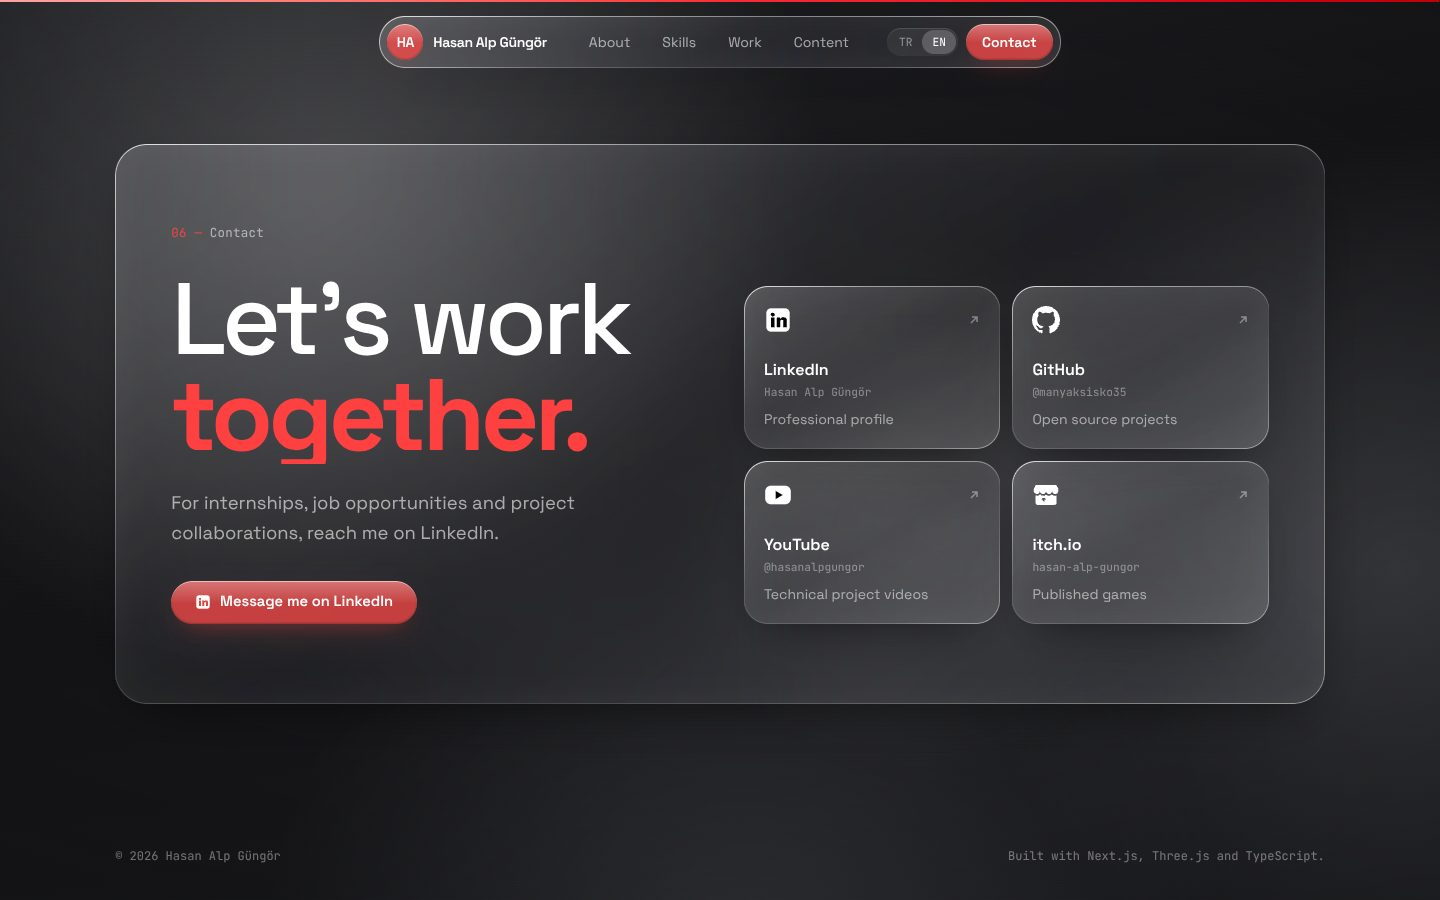
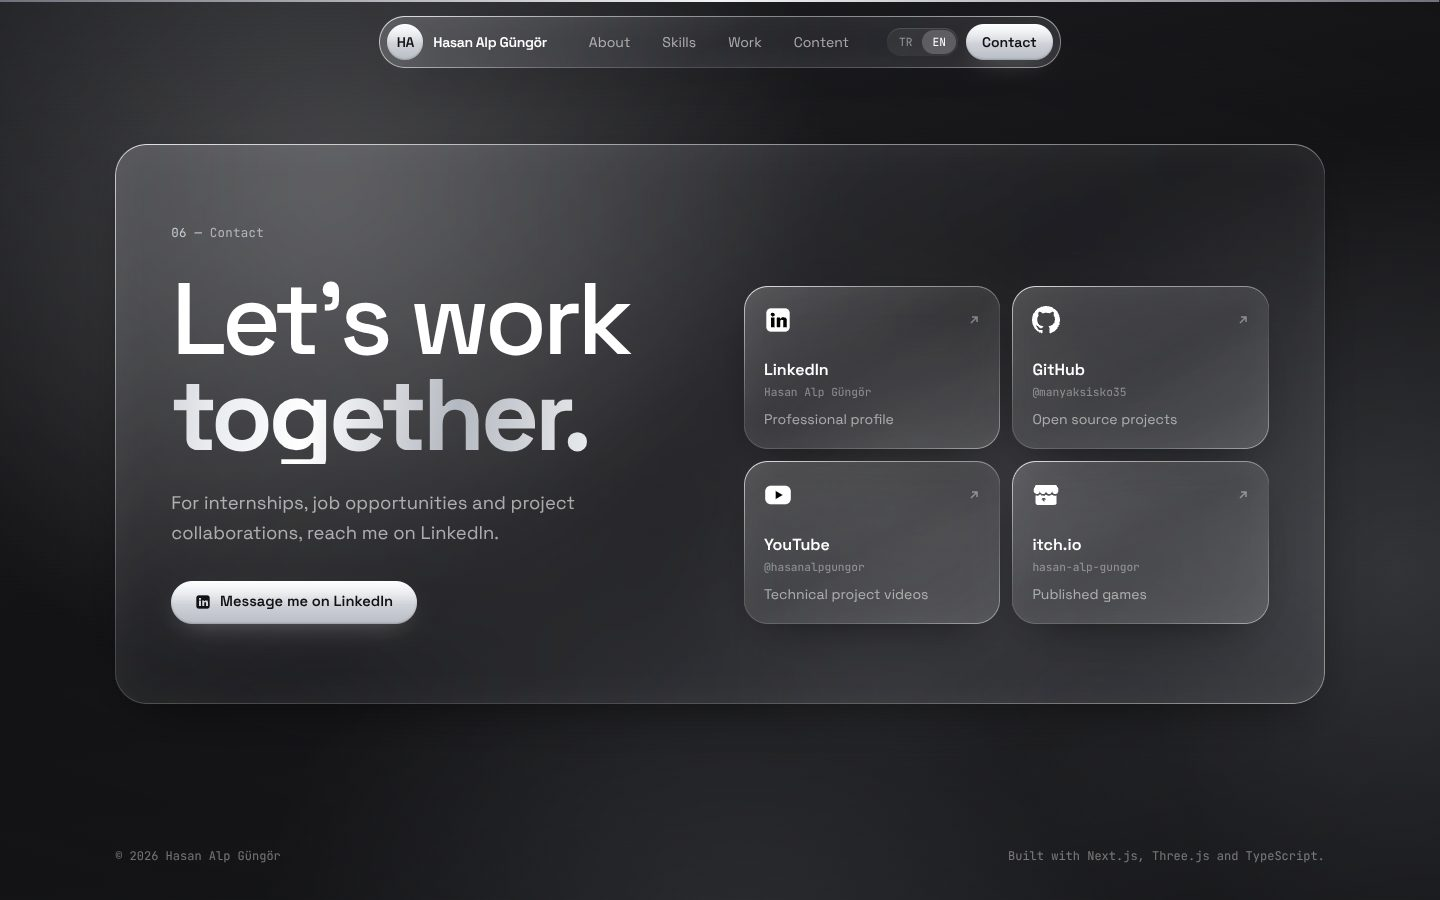
Gümüş tema
Kırmızı vurgular gümüşe çevrildi: başlıklarda parlayan metalik yazı, gümüş butonlar, gümüş oyun kolu ve nötr ışıklar.

Changed region(s): [[0.25, 0.0, 1.0, 0.0933], [0.125, 0.4044, 0.4062, 0.5289], [0.0938, 0.6222, 0.3125, 0.7156]]

diff --git a/app/globals.css b/app/globals.css
@@ -53,7 +53,7 @@ main { counter-reset: section; }
 .ui-label:not(.ui-label--plain) { counter-increment: section; }
 .ui-label:not(.ui-label--plain)::before {
   content: counter(section, decimal-leading-zero) '  —  ';
-  color: #ef4444;
+  color: #c7cbd2;
 }
 
 .ui-title {
@@ -75,7 +75,20 @@ h2.ui-title-xl { font-size: clamp(2.6rem, 1.3rem + 5.6vw, 6.5rem); }
 }
 
 .ui-accent {
-  color: #ff4040;
+  /* Brushed silver: a metallic gradient with a slow sheen passing over it. */
+  background: linear-gradient(100deg, #8f949d 0%, #e9ebef 22%, #ffffff 32%, #b4b8c0 48%, #f4f5f7 66%, #9ea3ab 82%, #d8dbe0 100%);
+  background-size: 220% 100%;
+  -webkit-background-clip: text;
+  background-clip: text;
+  color: transparent;
+  animation: silver-sheen 9s ease-in-out infinite alternate;
+}
+@keyframes silver-sheen {
+  from { background-position: 0% 50%; }
+  to { background-position: 100% 50%; }
+}
+@media (prefers-reduced-motion: reduce) {
+  .ui-accent { animation: none; }
 }
 
 .ui-card {
@@ -127,33 +140,34 @@ h2.ui-title-xl { font-size: clamp(2.6rem, 1.3rem + 5.6vw, 6.5rem); }
   gap: 0.55rem;
   padding: 0.8rem 1.5rem;
   border-radius: 999px;
-  color: #fff;
+  color: #111214;
   font-weight: 600;
   font-size: 0.92rem;
   line-height: 1.2;
-  /* Tinted glass: red light inside a clear shell. */
+  /* Polished silver capsule with a glass highlight on top. */
   background:
-    linear-gradient(180deg, rgba(255, 255, 255, 0.28), rgba(255, 255, 255, 0) 52%),
-    rgba(239, 68, 68, 0.78);
+    linear-gradient(180deg, rgba(255, 255, 255, 0.9), rgba(255, 255, 255, 0) 55%),
+    linear-gradient(180deg, #e9ebef, #b9bdc5);
   -webkit-backdrop-filter: blur(16px) saturate(180%);
   backdrop-filter: blur(16px) saturate(180%);
   box-shadow:
-    inset 0 1px 0 rgba(255, 255, 255, 0.55),
-    inset 0 -1px 2px rgba(0, 0, 0, 0.25),
-    0 10px 26px -12px rgba(239, 68, 68, 0.55);
+    inset 0 1px 0 rgba(255, 255, 255, 0.9),
+    inset 0 -1px 2px rgba(0, 0, 0, 0.18),
+    0 10px 26px -12px rgba(255, 255, 255, 0.35);
   transition: transform 0.25s cubic-bezier(0.2, 0.8, 0.2, 1), box-shadow 0.25s ease, background 0.25s ease;
 }
-.ui-btn { --icon-cut: #e0443c; }
+.ui-btn { --icon-cut: #d4d7dc; }
 .ui-btn--ghost { --icon-cut: #1a1a1d; }
 .ui-btn:hover {
   transform: translateY(-1px) scale(1.03);
   box-shadow:
-    inset 0 1px 0 rgba(255, 255, 255, 0.65),
-    inset 0 -1px 2px rgba(0, 0, 0, 0.25),
-    0 14px 32px -12px rgba(239, 68, 68, 0.7);
+    inset 0 1px 0 rgba(255, 255, 255, 1),
+    inset 0 -1px 2px rgba(0, 0, 0, 0.18),
+    0 14px 32px -12px rgba(255, 255, 255, 0.5);
 }
 .ui-btn:active { transform: scale(0.97); }
 .ui-btn--ghost {
+  color: #fff;
   background:
     linear-gradient(180deg, rgba(255, 255, 255, 0.16), rgba(255, 255, 255, 0.03) 60%),
     rgba(255, 255, 255, 0.04);
@@ -170,7 +184,7 @@ h2.ui-title-xl { font-size: clamp(2.6rem, 1.3rem + 5.6vw, 6.5rem); }
 }
 
 :focus-visible {
-  outline: 2px solid #ff4d4d;
+  outline: 2px solid #d1d5db;
   outline-offset: 3px;
   border-radius: 6px;
 }
@@ -250,8 +264,6 @@ a.rounded-full:focus-visible { border-radius: 999px; }
 @media (prefers-reduced-motion: reduce) {
   .ui-ambient::before { animation: none; }
 }
-.amb-red    { --amb-a: rgba(239, 68, 68, 0.16);  --amb-b: rgba(185, 28, 28, 0.12); }
-.amb-ember  { --amb-a: rgba(255, 90, 70, 0.14);  --amb-b: rgba(127, 29, 29, 0.16); }
 
 
 @media (prefers-reduced-motion: no-preference) {
@@ -310,8 +322,8 @@ a.rounded-full:focus-visible { border-radius: 999px; }
   width: 1.6rem;
   height: 1.6rem;
   border-radius: 999px;
-  background: linear-gradient(135deg, #ff6b6b, #dc2626);
-  color: #fff;
+  background: linear-gradient(180deg, #f4f5f7, #aeb3bb);
+  color: #111214;
   font-size: 0.62rem;
   font-weight: 700;
 }

diff --git a/components/About.tsx b/components/About.tsx
@@ -104,7 +104,7 @@ export default function About() {
                 <p className="text-xl lg:text-2xl font-semibold tracking-tight">{t({ tr: 'İzmir Ekonomi Üniversitesi', en: 'İzmir University of Economics' })}</p>
                 <p className="mt-1 text-white/55">{t({ tr: 'Bilgisayar Programcılığı', en: 'Computer Programming' })}</p>
               </div>
-              <span className="shrink-0 rounded-full border border-red-500/40 bg-red-500/10 px-3 py-1 font-mono text-[0.7rem] text-red-300">
+              <span className="shrink-0 rounded-full border border-white/25 bg-white/10 px-3 py-1 font-mono text-[0.7rem] text-zinc-100">
                 {t({ tr: 'Devam ediyor', en: 'In progress' })}
               </span>
             </div>
@@ -127,8 +127,8 @@ export default function About() {
             <p className="mt-4 text-xl font-semibold tracking-tight">İzmir, {t({ tr: 'Türkiye', en: 'Türkiye' })}</p>
             <p className="mt-auto pt-6 flex items-center gap-2 font-mono text-sm text-white/55">
               <span className="relative flex w-2 h-2">
-                <span className="absolute inset-0 rounded-full bg-red-500 animate-ping opacity-60" />
-                <span className="relative w-2 h-2 rounded-full bg-red-500" />
+                <span className="absolute inset-0 rounded-full bg-zinc-200 animate-ping opacity-60" />
+                <span className="relative w-2 h-2 rounded-full bg-zinc-200" />
               </span>
               <IzmirClock /> <span className="text-white/30">GMT+3</span>
             </p>
@@ -148,7 +148,7 @@ export default function About() {
             <ul className="mt-4 space-y-2 text-sm text-white/75">
               {FOCUS.map((f) => (
                 <li key={f.en} className="flex gap-2">
-                  <span className="mt-2 w-1 h-1 shrink-0 rounded-full bg-red-500" />
+                  <span className="mt-2 w-1 h-1 shrink-0 rounded-full bg-zinc-200" />
                   {t(f)}
                 </li>
               ))}

diff --git a/lib/data.ts b/lib/data.ts
@@ -91,7 +91,7 @@ export const PROJECTS: Project[] = [
       en: 'A website concept where I reimagined the digital identity of the Norwegian national football team.',
     },
     stack: ['Web Design', 'UI'],
-    accent: '#ef4444',
+    accent: '#e4e4e7',
   },
   {
     name: 'CS2 Major HUD',
@@ -102,7 +102,7 @@ export const PROJECTS: Project[] = [
       en: 'I made a Major-style broadcast overlay for Counter-Strike 2 matches. It reads game data about 10 times a second and shows health, money, the killfeed and the bomb timer live.',
     },
     stack: ['Python', 'JavaScript', 'HTML', 'CSS'],
-    accent: '#ef4444',
+    accent: '#e4e4e7',
   },
   {
     name: 'Goal Detector System',
@@ -113,7 +113,7 @@ export const PROJECTS: Project[] = [
       en: 'A goal detection system I developed with an Arduino Uno and Python, including the circuit design and the software.',
     },
     stack: ['Arduino', 'Python'],
-    accent: '#f87171',
+    accent: '#a1a1aa',
   },
   {
     name: 'Öğrenci Not Sistemi',
@@ -124,7 +124,7 @@ export const PROJECTS: Project[] = [
       en: 'A PHP app that works out whether a student passes from their midterm and final grades. I wrote two versions: one with a database, one with JSON.',
     },
     stack: ['PHP', 'SQL', 'JSON'],
-    accent: '#dc2626',
+    accent: '#d4d4d8',
   },
   {
     name: 'PcProgramKurucu',
@@ -135,7 +135,7 @@ export const PROJECTS: Project[] = [
       en: 'A Batch script I wrote to install programs on a PC automatically.',
     },
     stack: ['Batch', 'Windows'],
-    accent: '#fca5a5',
+    accent: '#f4f4f5',
   },
   {
     name: 'Mağaza Satış Analiz Programı',
@@ -146,7 +146,7 @@ export const PROJECTS: Project[] = [
       en: 'A program that analyses store sales, written for my C# fundamentals course. The walkthrough is on YouTube.',
     },
     stack: ['C#'],
-    accent: '#b91c1c',
+    accent: '#71717a',
   },
 ];
 

diff --git a/lib/controllerModel.ts b/lib/controllerModel.ts
@@ -90,8 +90,8 @@ function fontStack() {
 export function drawScreen(ctx: CanvasRenderingContext2D) {
   const { width: w, height: h } = ctx.canvas;
   const bg = ctx.createLinearGradient(0, 0, w, h);
-  bg.addColorStop(0, '#0a0404');
-  bg.addColorStop(1, '#140606');
+  bg.addColorStop(0, '#08090b');
+  bg.addColorStop(1, '#131418');
   ctx.fillStyle = bg;
   ctx.fillRect(0, 0, w, h);
 
@@ -102,9 +102,9 @@ export function drawScreen(ctx: CanvasRenderingContext2D) {
     ctx.fillStyle = g;
     ctx.fillRect(0, 0, w, h);
   };
-  blob(w * 0.18, h * 0.85, w * 0.5, 'rgba(255, 77, 77, 0.55)');
-  blob(w * 0.62, h * 0.2, w * 0.45, 'rgba(185, 28, 28, 0.6)');
-  blob(w * 0.95, h * 0.9, w * 0.4, 'rgba(255, 140, 120, 0.4)');
+  blob(w * 0.18, h * 0.85, w * 0.5, 'rgba(255, 255, 255, 0.4)');
+  blob(w * 0.62, h * 0.2, w * 0.45, 'rgba(150, 156, 166, 0.55)');
+  blob(w * 0.95, h * 0.9, w * 0.4, 'rgba(220, 223, 229, 0.35)');
 
   ctx.strokeStyle = 'rgba(255,255,255,0.08)';
   ctx.lineWidth = 2;
@@ -129,7 +129,7 @@ export function drawScreen(ctx: CanvasRenderingContext2D) {
 /** The circuit board hidden between the shells. */
 export function drawBoard(ctx: CanvasRenderingContext2D) {
   const { width: w, height: h } = ctx.canvas;
-  ctx.fillStyle = '#0f0707';
+  ctx.fillStyle = '#0c0d0f';
   ctx.fillRect(0, 0, w, h);
 
   // Seeded so every visit gets the same board.
@@ -140,7 +140,7 @@ export function drawBoard(ctx: CanvasRenderingContext2D) {
   for (let i = 0; i < 70; i++) {
     let x = rnd() * w;
     let y = rnd() * h;
-    ctx.strokeStyle = rnd() > 0.7 ? 'rgba(255, 77, 77, 0.85)' : 'rgba(220, 38, 38, 0.3)';
+    ctx.strokeStyle = rnd() > 0.7 ? 'rgba(230, 233, 238, 0.8)' : 'rgba(150, 156, 166, 0.3)';
     ctx.lineWidth = rnd() > 0.8 ? 4 : 2;
     ctx.beginPath();
     ctx.moveTo(x, y);

diff --git a/components/Scene.tsx b/components/Scene.tsx
@@ -20,9 +20,10 @@ function StudioEnv() {
       <Lightformer form="rect" intensity={3} position={[0, 5, 0]} rotation-x={Math.PI / 2} scale={[10, 4, 1]} />
       <Lightformer form="rect" intensity={2.4} position={[-5, 0.5, 1]} rotation-y={Math.PI / 2} scale={[2.5, 9, 1]} />
       <Lightformer form="rect" intensity={2.4} position={[5, 0.5, 1]} rotation-y={-Math.PI / 2} scale={[2.5, 9, 1]} />
-      <Lightformer form="rect" intensity={0.8} position={[0, 0, 6]} rotation-y={Math.PI} scale={[8, 5, 1]} />
-      <Lightformer form="ring" color="#ff4d4d" intensity={1.6} position={[0, 0, -6]} scale={5} />
-      <Lightformer form="ring" color="#b91c1c" intensity={1.2} position={[-4, -2, -4]} scale={3} />
+      <Lightformer form="rect" intensity={2.2} position={[0, 0, 6]} rotation-y={Math.PI} scale={[8, 5, 1]} />
+      <Lightformer form="rect" intensity={1.6} position={[0, 3.5, 4]} rotation-x={Math.PI / 3} scale={[6, 2, 1]} />
+      <Lightformer form="ring" color="#ffffff" intensity={1.6} position={[0, 0, -6]} scale={5} />
+      <Lightformer form="ring" color="#9ca3af" intensity={1.2} position={[-4, -2, -4]} scale={3} />
     </Environment>
   );
 }
@@ -141,9 +142,9 @@ export default function Scene() {
       >
         <StudioEnv />
         <ambientLight intensity={0.25} />
-        <directionalLight position={[0, 2.5, -5]} intensity={2.6} color="#ffe1dc" />
+        <directionalLight position={[0, 2.5, -5]} intensity={2.6} color="#ffffff" />
         <directionalLight position={[3, 4, 5]} intensity={1.4} />
-        <directionalLight position={[-4, 1, 4]} intensity={0.6} color="#ff8a80" />
+        <directionalLight position={[-4, 1, 4]} intensity={0.6} color="#e5e7eb" />
         <Rig>
           <Controller />
         </Rig>

diff --git a/components/Controller.tsx b/components/Controller.tsx
@@ -18,7 +18,7 @@ import { pose } from '@/lib/sceneState';
 
 /** Front face of the front shell (local z). */
 const FACE = 0.27;
-const BUTTON_COLORS = ['#ff3b3b', '#ff8a80', '#b91c1c', '#e5e5e5'];
+const BUTTON_COLORS = ['#f4f4f5', '#a1a1aa', '#d4d4d8', '#71717a'];
 const BUTTON_OFFSETS: [number, number][] = [
   [0, 0.13],
   [0.13, 0],
@@ -34,9 +34,9 @@ function Anchor({ id, position, onRef }: { id: PartId; position: [number, number
 function useMaterials() {
   return useMemo(() => {
     const shell = new THREE.MeshPhysicalMaterial({
-      color: '#3a3e46',
-      metalness: 0.6,
-      roughness: 0.36,
+      color: '#9aa0a8',
+      metalness: 0.9,
+      roughness: 0.28,
       clearcoat: 1,
       clearcoatRoughness: 0.18,
     });
@@ -50,7 +50,7 @@ function useMaterials() {
     const rubber = new THREE.MeshStandardMaterial({ color: '#0d0e10', roughness: 0.85, metalness: 0.1 });
     const recess = new THREE.MeshStandardMaterial({ color: '#040405', roughness: 0.9 });
     const dpad = new THREE.MeshPhysicalMaterial({ color: '#1d2026', metalness: 0.6, roughness: 0.3, clearcoat: 1 });
-    const glow = new THREE.MeshBasicMaterial({ color: '#ff4d4d', toneMapped: false });
+    const glow = new THREE.MeshBasicMaterial({ color: '#f4f4f5', toneMapped: false });
     const buttons = BUTTON_COLORS.map(
       (c) =>
         new THREE.MeshPhysicalMaterial({

diff --git a/components/Work.tsx b/components/Work.tsx
@@ -138,7 +138,7 @@ export default function Work() {
           rel="noopener noreferrer"
           className="group ui-card relative flex flex-col justify-end p-7 lg:p-10 min-h-64 lg:w-[30vw] lg:h-[74svh] lg:shrink-0 overflow-hidden !rounded-[28px] lg:!rounded-[28px]"
         >
-          <div className="absolute inset-0 -z-10 opacity-80" style={{ background: 'radial-gradient(60% 50% at 70% 30%, rgba(239,68,68,0.25), transparent 70%)' }} />
+          <div className="absolute inset-0 -z-10 opacity-80" style={{ background: 'radial-gradient(60% 50% at 70% 30%, rgba(255,255,255,0.14), transparent 70%)' }} />
           <p className="ui-label ui-label--plain font-mono text-xs text-white/40 mb-3">GitHub</p>
           <p className="text-3xl lg:text-5xl font-medium tracking-[-0.04em] leading-[1.02]">
             {t({ tr: 'Diğer kodlarım ', en: 'The rest of my code is ' })}
@@ -152,7 +152,7 @@ export default function Work() {
       </div>
 
       <div className="hidden lg:block absolute bottom-8 left-[8%] right-[8%] h-px bg-white/10">
-        <div ref={bar} className="h-full origin-left bg-gradient-to-r from-red-300 via-red-500 to-red-700" style={{ transform: 'scaleX(0)' }} />
+        <div ref={bar} className="h-full origin-left bg-gradient-to-r from-zinc-500 via-zinc-100 to-zinc-500" style={{ transform: 'scaleX(0)' }} />
       </div>
     </section>
   );

diff --git a/components/Loader.tsx b/components/Loader.tsx
@@ -50,7 +50,7 @@ export default function Loader() {
       <div className="w-[min(78vw,320px)]">
         <div className="flex items-center gap-3">
           <span
-            className="grid place-items-center w-11 h-11 rounded-xl bg-red-500 text-base font-bold tracking-tight transition-transform duration-500"
+            className="grid place-items-center w-11 h-11 rounded-full bg-gradient-to-b from-zinc-100 to-zinc-400 text-black text-base font-bold tracking-tight transition-transform duration-500"
             style={{ transform: complete ? 'rotate(-8deg) scale(1.06)' : 'none' }}
           >
             HA
@@ -58,7 +58,7 @@ export default function Loader() {
           <span className="text-lg font-semibold tracking-tight">Hasan Alp Güngör</span>
         </div>
         <div className="mt-6 h-px bg-white/10 overflow-hidden">
-          <div className="h-full bg-red-500 origin-left" style={{ transform: `scaleX(${progress})` }} />
+          <div className="h-full bg-zinc-200 origin-left" style={{ transform: `scaleX(${progress})` }} />
         </div>
         <p className="mt-3 flex justify-between font-mono text-[0.7rem] text-white/40 tabular-nums">
           <span>{complete ? 'ready' : 'loading'}</span>

diff --git a/components/Videos.tsx b/components/Videos.tsx
@@ -41,9 +41,9 @@ export default function Videos() {
                 <span className="w-6 shrink-0 text-xs tabular-nums text-white/35">{String(i + 1).padStart(2, '0')}</span>
                 <span className="flex-1 min-w-0">
                   <span className="block text-base lg:text-lg font-medium leading-snug">{t(v.title)}</span>
-                  <span className="block mt-1 text-xs text-red-400/80">{t(v.tag)}</span>
+                  <span className="block mt-1 text-xs text-zinc-400">{t(v.tag)}</span>
                 </span>
-                <span className="w-9 h-9 shrink-0 rounded-full border border-white/15 flex items-center justify-center text-white/70 transition-all group-hover:bg-red-500 group-hover:border-red-500 group-hover:text-white">
+                <span className="w-9 h-9 shrink-0 rounded-full border border-white/15 flex items-center justify-center text-white/70 transition-all group-hover:bg-white group-hover:border-white group-hover:text-black">
                   <svg width="10" height="10" viewBox="0 0 14 14" aria-hidden>
                     <path d="M3 1.5v11l9.5-5.5z" fill="currentColor" />
                   </svg>

diff --git a/components/Hero.tsx b/components/Hero.tsx
@@ -47,7 +47,7 @@ export default function Hero() {
       <div className="max-w-7xl mx-auto h-full flex flex-col justify-start lg:justify-center pt-28 lg:pt-16">
         <div className="lg:max-w-[52%]">
           <p className="hero-in ui-label ui-label--plain mb-5 md:mb-7 glass inline-flex items-center gap-2 rounded-full px-3.5 py-1.5">
-            <span className="w-1.5 h-1.5 rounded-full bg-red-500" />
+            <span className="w-1.5 h-1.5 rounded-full bg-zinc-200 shadow-[0_0_8px_rgba(255,255,255,0.7)]" />
             {t({ tr: 'Bilgisayar Programcılığı Öğrencisi · Oyun Geliştirici', en: 'Computer Programming Student · Game Developer' })}
           </p>
 

diff --git a/components/Contact.tsx b/components/Contact.tsx
@@ -49,7 +49,7 @@ export default function Contact() {
                   >
                     <span className="flex items-center justify-between">
                       <Icon className="w-7 h-7 text-white" />
-                      <span className="text-white/40 transition-all group-hover:text-red-400 group-hover:translate-x-0.5 group-hover:-translate-y-0.5">
+                      <span className="text-white/40 transition-all group-hover:text-white group-hover:translate-x-0.5 group-hover:-translate-y-0.5">
                         <ArrowIcon />
                       </span>
                     </span>

diff --git a/app/layout.tsx b/app/layout.tsx
@@ -24,7 +24,7 @@ export const viewport: Viewport = { themeColor: '#161618' };
 
 export default function RootLayout({ children }: { children: React.ReactNode }) {
   return (
-    <html lang="tr" className="antialiased selection:bg-red-500/30" suppressHydrationWarning>
+    <html lang="tr" className="antialiased selection:bg-white/25" suppressHydrationWarning>
       <body className="bg-[#161618] text-white" suppressHydrationWarning>
         {children}
       </body>
